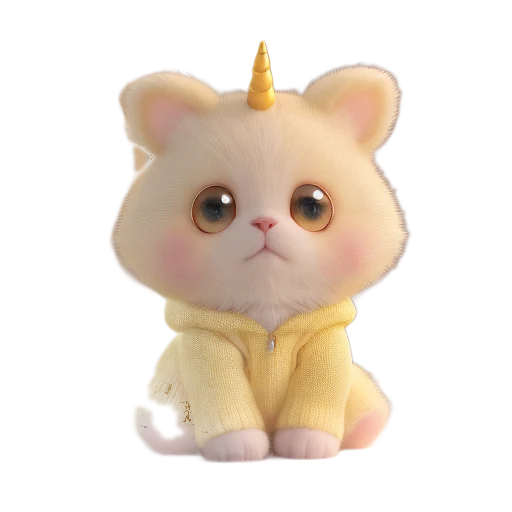
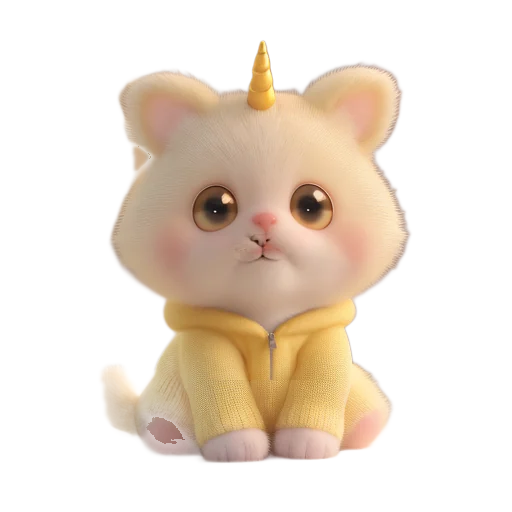
LuminaPets: todas sonríen como Lila, con más detalle y su cola medida
Las 16 criaturas tienen una pasada de detalle facial (cara ampliada y
regenerada con más detalle) y la sonrisa de Lila transferida: solo la
línea de su boca («w» con las comisuras hacia arriba), alineada con la
nariz de cada una. Se recortan de nuevo y se miden ojos, orejas, cola
(línea central con grosor, validada para que no pase bajo el cuerpo) y
patas delanteras para la caminata. Lila también usa su cola y sus patas
medidas.

Claude-Session: https://claude.ai/code/session_0196B2rs1uN374FLGHNEBAbE

Changed region(s): [[0.1875, 0.5625, 0.625, 0.875], [0.375, 0.3438, 0.6562, 0.5625], [0.6562, 0.625, 0.6875, 0.6562]]

diff --git a/public/lumina-vivo.js b/public/lumina-vivo.js
@@ -39,23 +39,23 @@ var ALAS={hada:{img:"lumina/alas-hada.webp",tam:0.66,dx:0.16,dy:-0.05},dragon:{i
 /* medidas de cada foto (ojos [x, y, radio x, radio y], puntas de las orejas y cola), en píxeles de 512;
    las de Lila son las del esqueleto base. Las genera el procesado de las fotos. */
 var RIGS={
-  algodon:{"ojos":[[215.0,204.0,25.4,22.4],[306.5,207.5,25.4,22.4]],"orejas":[[166.0,71.0],[360.0,64.0]],"abajo":455},
-  astro:{"ojos":[[215.5,204.5,27.2,22.4],[307.0,205.0,27.2,22.4]],"orejas":[[130.9,70.0],[365.5,60.0]],"abajo":454},
-  brasita:{"ojos":[[215.0,202.0,24.6,22.4],[308.5,200.0,24.6,22.4]],"orejas":[[231.5,0.0],[290.0,0.0]],"abajo":453},
-  chispa:{"ojos":[[216.0,205.0,26.6,22.4],[306.5,202.5,26.6,22.4]],"orejas":[[129.8,70.0],[365.2,59.0]],"abajo":456},
-  cometa:{"ojos":[[217.5,204.0,24.6,22.4],[305.5,205.5,24.6,22.4]],"orejas":[[117.5,38.0],[390.0,37.0]],"abajo":456,"cola":null,"patas":[[213.7,440.3,25.4],[311.3,439.3,25.4]]},
-  cuarzo:{"ojos":[[214.0,208.0,26.6,29.0],[308.0,207.5,26.6,29.0]],"orejas":[[176.5,68.0],[349.0,66.0]],"abajo":454,"cola":[[177.5,375.4,23.8],[171.1,385.5,23.8],[160.6,402.0,14.4],[154.0,413.7,18.9],[146.4,420.7,26.9],[135.0,425.9,20.7],[117.8,422.1,8.5]],"patas":[[217.5,436.7,27.1],[313.8,436.4,27.1]]},
-  florita:{"ojos":[[215.0,209.0,24.6,29.0],[307.5,208.0,24.6,29.0]],"orejas":[[228.5,10.0],[291.0,11.0]],"abajo":453,"cola":null,"patas":[[210.5,436.9,26.7],[313.3,436.1,26.7]]},
-  iris:{"ojos":[[214.5,205.5,24.8,23.6],[311.5,200.5,24.8,23.6]],"orejas":[[132.5,20.0],[391.5,17.0]],"abajo":457},
+  algodon:{"ojos":[[215.0,204.0,26.6,22.4],[309.0,200.5,26.6,22.4]],"orejas":[[166.0,71.0],[360.0,64.0]],"abajo":455,"cola":[[135.4,417.2,35.9],[126.0,409.7,35.9],[117.5,402.9,18.0],[115.1,391.4,9.9],[115.4,381.4,8.0],[113.6,375.5,8.0],[110.2,372.2,8.0]],"patas":[[210.9,437.8,27.1],[313.4,436.7,27.1]]},
+  astro:{"ojos":[[215.0,203.5,26.6,22.4],[311.5,204.5,26.6,22.4]],"orejas":[[131.5,70.0],[365.5,60.0]],"abajo":455,"cola":[[139.6,420.3,18.7],[129.3,414.2,18.7],[108.6,402.0,13.7],[101.0,382.4,13.1],[100.5,361.1,17.7],[94.7,343.7,16.0],[90.0,327.4,9.1]],"patas":[[210.8,437.5,27.8],[316.3,437.0,27.8]]},
+  brasita:{"ojos":[[214.0,200.5,24.6,22.4],[311.0,200.5,24.6,22.4]],"orejas":[[229.0,8.0],[294.5,8.0]],"abajo":452,"cola":null,"patas":[[227.7,434.6,28.0],[324.1,435.7,28.0]]},
+  chispa:{"ojos":[[215.5,205.5,28.4,22.4],[309.5,205.0,28.4,22.4]],"orejas":[[129.8,70.0],[365.2,59.0]],"abajo":456,"cola":[[130.8,416.3,28.6],[123.3,407.0,28.6],[109.9,390.4,22.7],[102.2,376.6,15.1],[99.4,360.5,16.4],[96.7,344.5,16.4],[93.8,330.3,9.3]],"patas":[[212.4,438.6,27.1],[313.5,437.9,27.1]]},
+  cometa:{"ojos":[[217.5,203.0,24.8,22.4],[309.0,204.5,24.8,22.4]],"orejas":[[119.5,39.0],[390.0,37.0]],"abajo":456,"cola":null,"patas":[[213.7,439.3,26.4],[314.6,438.2,26.4]]},
+  cuarzo:{"ojos":[[215.0,206.0,26.6,27.8],[310.0,202.0,26.6,27.8]],"orejas":[[176.5,68.0],[349.0,66.0]],"abajo":460,"cola":[[197.4,372.8,17.4],[185.6,375.0,17.4],[166.5,378.5,8.0],[166.0,391.8,10.3],[160.7,406.5,11.9],[160.3,424.6,12.4],[158.5,437.1,8.9]],"patas":[[215.6,444.7,27.4],[314.3,440.1,27.4]]},
+  florita:{"ojos":[[216.0,206.5,25.4,27.2],[310.0,202.0,25.4,27.2]],"orejas":[[229.0,12.0],[291.0,12.0]],"abajo":453,"cola":null,"patas":[[210.8,436.1,27.1],[315.6,435.6,27.1]]},
+  iris:{"ojos":[[215.5,206.5,24.8,23.6],[311.5,198.5,24.8,23.6]],"orejas":[[132.5,20.0],[391.5,17.0]],"abajo":457,"cola":null,"patas":[[211.1,438.5,27.7],[318.8,435.7,27.7]]},
   lila:{"cola":[[126.7,417.4,21.1],[117.3,409.9,21.1],[101.4,397.2,17.4],[94.9,379.9,14.5],[95.6,361.5,20.2],[92.9,345.5,21.2],[88.0,331.1,13.9]],"patas":[[204.4,437.4,30.0],[319.9,436.2,30.0]]},
-  luzmi:{"ojos":[[214.0,210.0,25.4,29.0],[307.5,203.0,25.4,29.0]],"orejas":[[229.0,7.0],[294.6,7.0]],"abajo":455},
-  miel:{"ojos":[[215.0,204.0,26.6,22.4],[306.5,208.0,26.6,22.4]],"orejas":[[167.5,69.0],[353.5,66.0]],"abajo":454},
-  mirlu:{"ojos":[[214.5,205.0,27.2,22.4],[306.0,200.5,27.2,22.4]],"orejas":[[130.2,71.0],[363.0,58.0]],"abajo":456,"cola":[[127.5,413.4,31.2],[120.3,403.8,31.2],[106.4,385.3,24.0],[105.9,363.0,25.7],[108.3,341.8,31.4],[106.1,324.2,27.0],[98.2,311.4,13.2]],"patas":[[210.9,438.9,26.4],[311.3,437.6,26.4]]},
-  nube:{"ojos":[[215.5,208.0,24.8,29.0],[306.5,201.0,24.8,29.0]],"orejas":[[211.0,18.0],[302.5,17.0]],"abajo":455},
-  petala:{"ojos":[[215.0,204.5,27.8,22.4],[305.0,207.0,27.8,22.4]],"orejas":[[122.5,69.0],[367.0,58.0]],"abajo":457,"cola":null,"patas":[[209.9,440.9,26.0],[309.7,439.8,26.0]]},
-  polar:{"ojos":[[215.0,202.5,24.6,22.4],[308.0,206.0,24.6,22.4]],"orejas":[[172.5,68.0],[354.5,64.0]],"abajo":455,"cola":[[137.5,416.2,24.2],[127.1,410.3,24.2],[107.8,399.4,18.4],[99.8,381.3,17.0],[99.0,361.3,20.7],[93.4,346.1,17.1],[90.3,332.3,8.0]],"patas":[[210.8,438.3,26.8],[313.1,437.3,26.8]]},
-  rocio:{"ojos":[[216.5,202.0,24.8,22.4],[307.0,204.5,24.8,22.4]],"orejas":[[128.0,31.0],[386.5,29.0]],"abajo":453,"cola":null,"patas":[[211.7,437.6,26.1],[312.3,437.0,26.1]]},
-  rubi:{"ojos":[[218.5,203.5,24.6,22.4],[307.0,206.0,24.6,22.4]],"orejas":[[125.6,35.0],[388.5,30.0]],"abajo":454}};
+  luzmi:{"ojos":[[215.5,204.5,24.8,22.4],[310.5,202.5,24.8,22.4]],"orejas":[[229.5,9.0],[294.5,9.0]],"abajo":455,"cola":[[134.9,407.2,45.0],[123.2,404.5,45.0],[116.2,402.9,20.2],[112.7,400.6,18.8],[108.8,398.1,21.2],[104.7,395.8,14.1],[102.5,391.2,8.1]],"patas":[[211.1,438.0,27.4],[315.7,436.9,27.4]]},
+  miel:{"ojos":[[215.0,207.5,26.6,26.0],[307.5,201.5,26.6,26.0]],"orejas":[[167.5,69.0],[353.5,66.0]],"abajo":454,"cola":null,"patas":[[219.2,437.2,26.7],[312.6,436.7,26.7]]},
+  mirlu:{"ojos":[[215.0,206.5,27.8,22.4],[310.5,205.0,27.8,22.4]],"orejas":[[129.7,71.0],[362.5,58.0]],"abajo":456,"cola":[[128.4,413.5,31.4],[121.0,404.1,31.4],[106.6,385.9,24.6],[105.7,363.3,26.0],[108.5,341.7,31.5],[106.4,324.0,27.5],[98.3,311.4,13.3]],"patas":[[210.9,437.8,27.5],[315.2,436.4,27.5]]},
+  nube:{"ojos":[[216.0,204.5,25.4,24.8],[308.5,201.0,25.4,24.8]],"orejas":[[212.6,18.0],[302.5,17.0]],"abajo":456,"cola":[[128.9,414.6,30.2],[122.0,404.8,30.2],[108.5,385.5,26.8],[109.1,361.0,28.1],[110.1,340.6,30.1],[104.5,325.0,26.9],[97.9,311.8,12.9]],"patas":[[212.4,438.8,26.7],[313.7,437.7,26.7]]},
+  petala:{"ojos":[[215.5,204.5,27.2,22.4],[307.5,199.5,27.2,22.4]],"orejas":[[122.0,69.0],[367.0,58.0]],"abajo":457,"cola":null,"patas":[[210.6,440.1,26.5],[311.9,439.1,26.5]]},
+  polar:{"ojos":[[215.5,203.0,26.0,22.4],[310.0,203.0,26.0,22.4]],"orejas":[[172.5,68.0],[354.5,64.0]],"abajo":455,"cola":[[138.2,415.3,22.4],[127.5,410.0,22.4],[108.0,400.3,17.2],[99.3,385.2,15.0],[100.1,364.9,18.7],[95.2,349.8,17.3],[90.3,338.4,8.0]],"patas":[[210.8,437.7,27.3],[315.5,436.7,27.3]]},
+  rocio:{"ojos":[[215.0,201.5,26.6,22.4],[310.0,203.0,26.6,22.4]],"orejas":[[128.0,31.0],[386.5,29.0]],"abajo":453,"cola":null,"patas":[[210.3,436.5,27.4],[315.1,435.9,27.4]]},
+  rubi:{"ojos":[[218.5,204.0,24.6,22.4],[310.0,205.0,24.6,22.4]],"orejas":[[125.5,35.0],[388.5,30.0]],"abajo":454,"cola":null,"patas":[[212.0,436.0,26.4],[315.5,437.4,26.4]]}};
 function rig(c){
   var r=JSON.parse(JSON.stringify(BASE)), d=RIGS[c.id];
   r.orejas=JSON.parse(JSON.stringify(OREJAS[c.esp]||OREJAS.gato));

diff --git a/LUMINA.md b/LUMINA.md
@@ -25,10 +25,16 @@ pastel y almohadillas rosadas).
   (sin tocar ojos ni nariz), se pintan en bruto las orejas de cada especie y el rasgo mágico, y un
   modelo de difusión (LCM Dreamshaper v7, licencia MIT) las vuelve realistas con poca fuerza. Luego
   se recortan (IS-Net, con la cola recuperada por GrabCut) y se miden sus ojos y orejas.
+  Todas **sonríen como Lila**: una pasada de detalle facial (se amplía la cara y el modelo la
+  regenera con más detalle) y luego se les transfiere la boquita de Lila (solo la línea de la «w»
+  con las comisuras hacia arriba, sin su color), alineada con la nariz de cada una.
 - **Animación avanzada (WebGL)**: cada criatura grande se monta sobre una malla deformable con
   huesos, como Live2D (`lumina-vivo.js`): la cabeza se inclina y mira, las orejas se sacuden, la
   cola ondula desde la base hasta la punta, el cuerpo respira desde el piso, la nariz y los bigotes
-  tiemblan y la boca mastica. Los ojos se resuelven en la GPU: el párpado es el propio pelaje de la
+  tiemblan y la boca mastica. La **cola** es la de cada criatura: se mide su línea central con el
+  grosor de cada tramo y su movimiento empieza en cero en la unión, así el cuerpo no se deforma
+  (si no tiene cola visible, no se mueve). Al **caminar**, las patas delanteras se levantan por
+  turno y el cuerpo sube y baja con cada paso. Las mejillas y las comisuras suben cuando está feliz. Los ojos se resuelven en la GPU: el párpado es el propio pelaje de la
   frente que baja (parpadeo natural, a veces doble), el iris se corre para mirar el dedo o el ratón,
   y el párpado de abajo sube cuando sonríe. Las alas de hada y de dragón son capas propias que
   aletean desde los hombros. Los accesorios de la cabeza la siguen.
